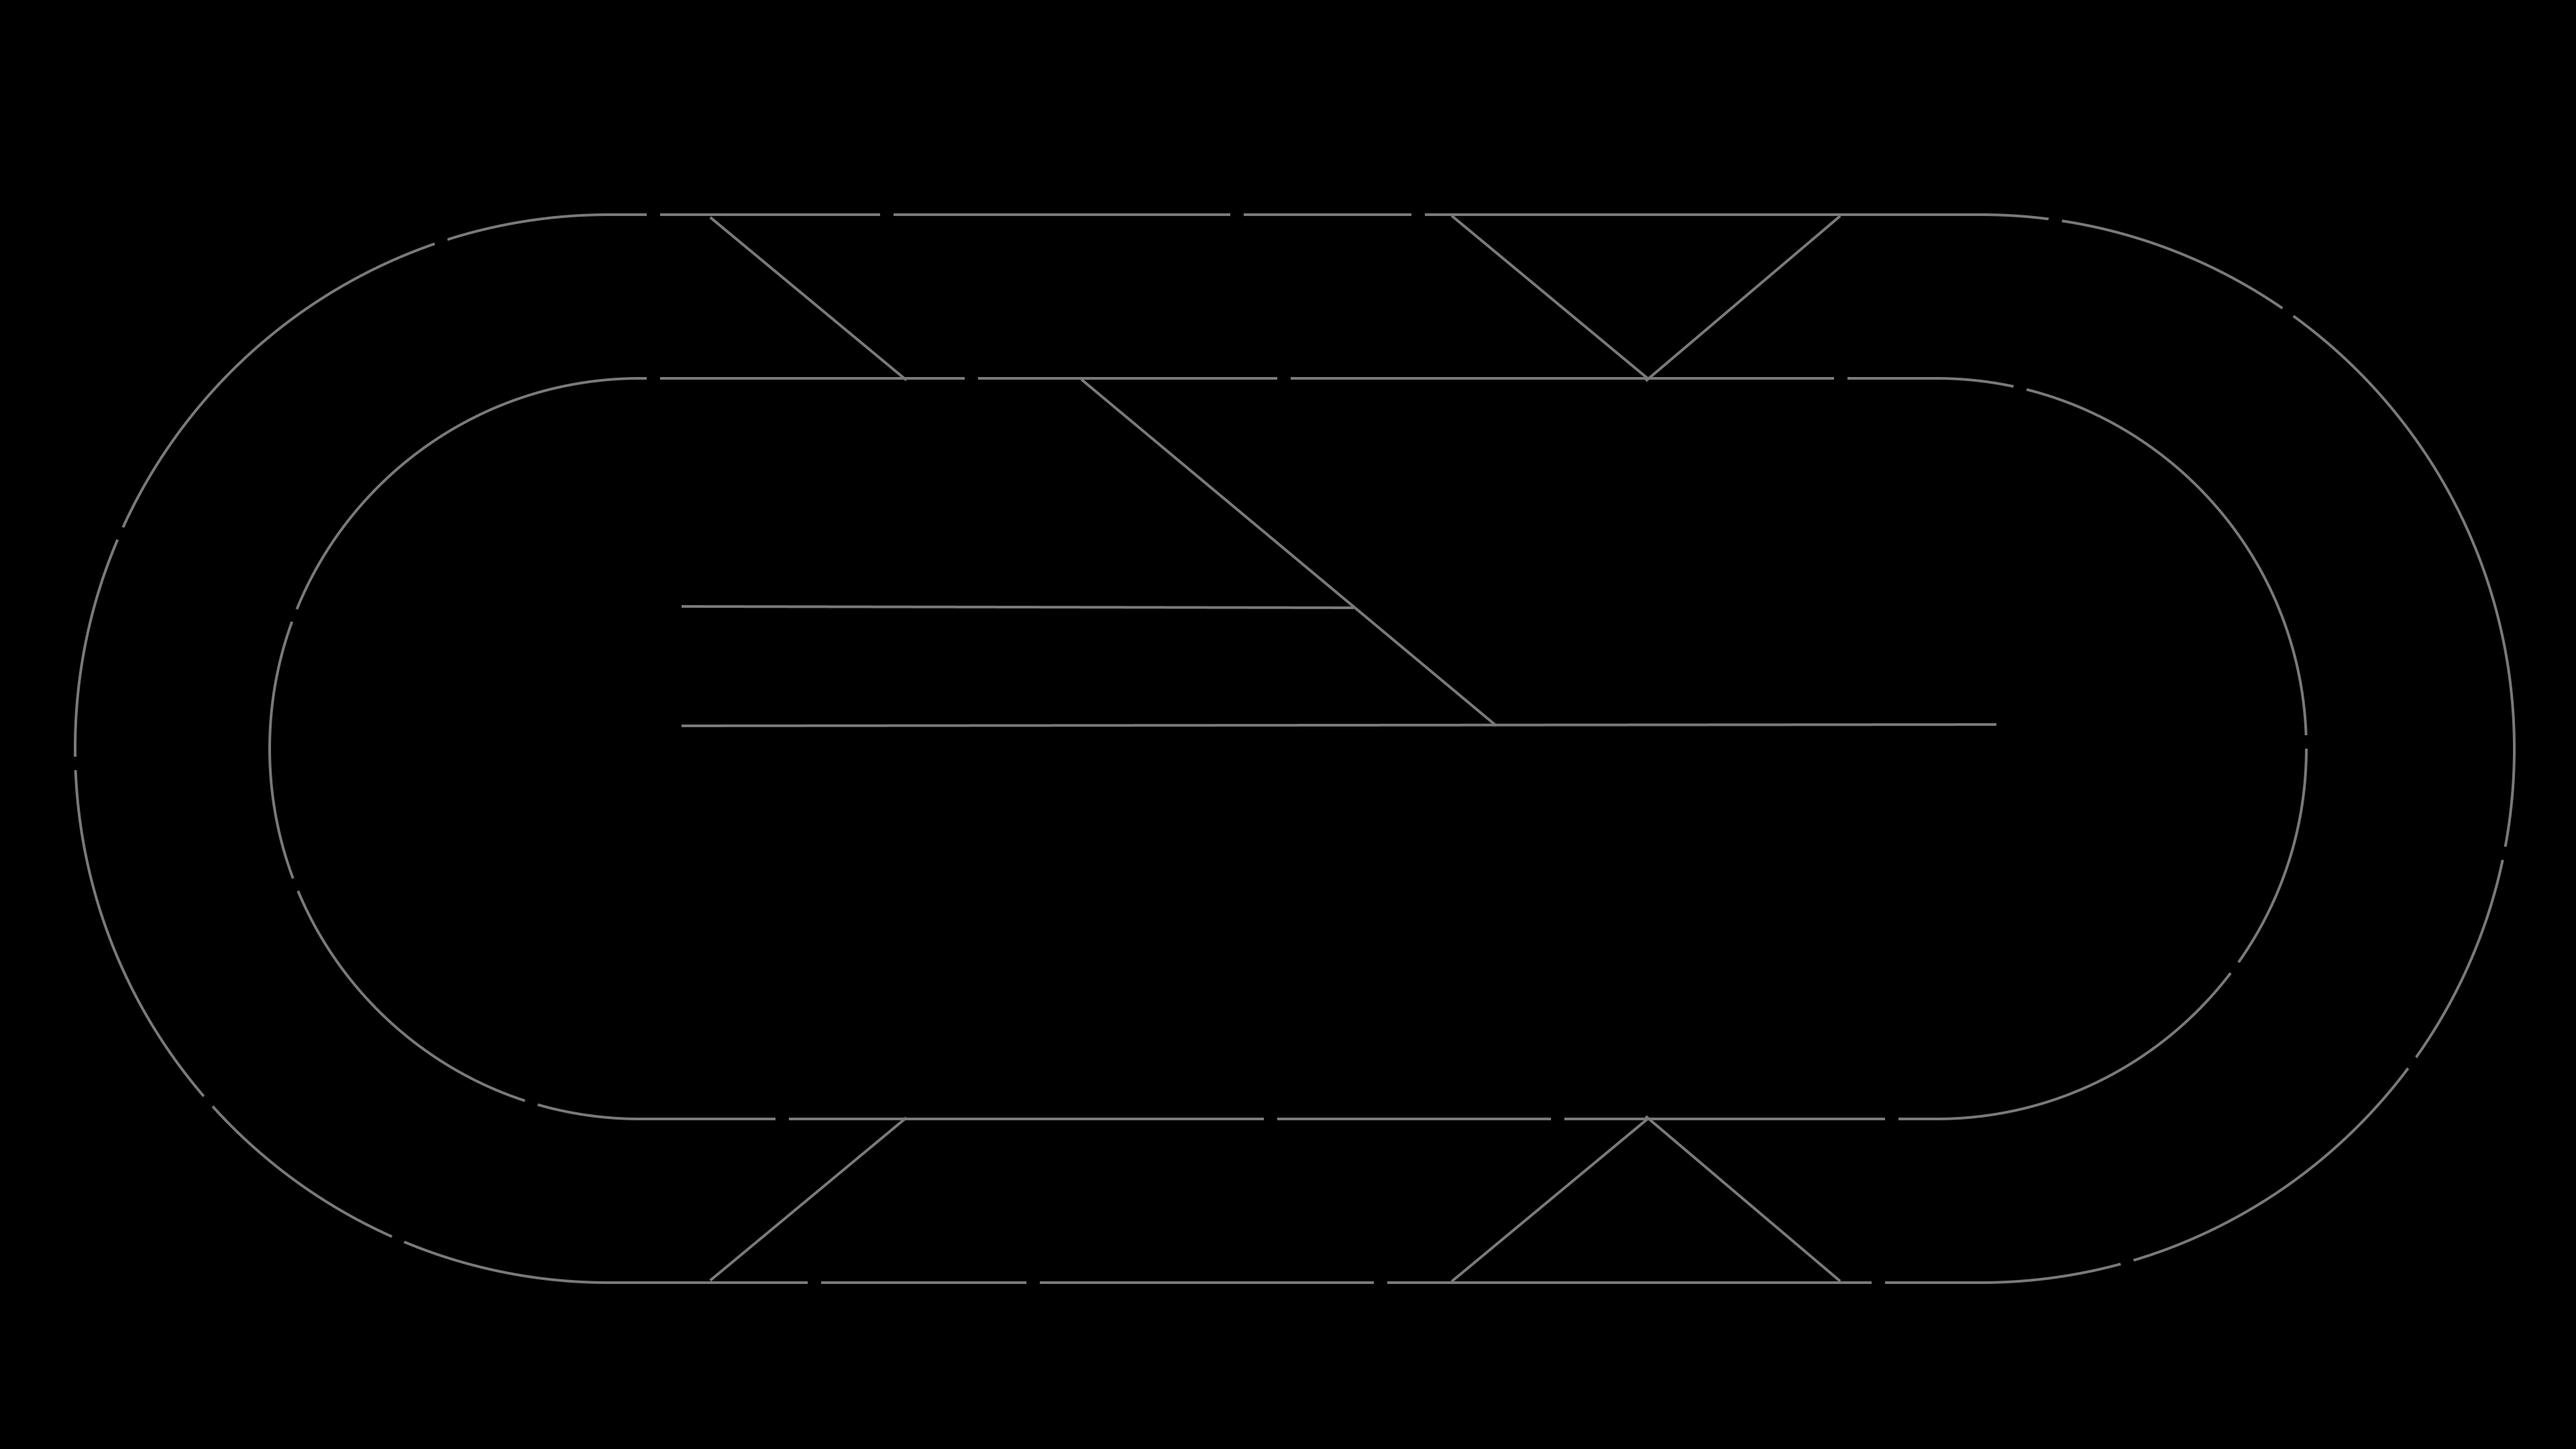
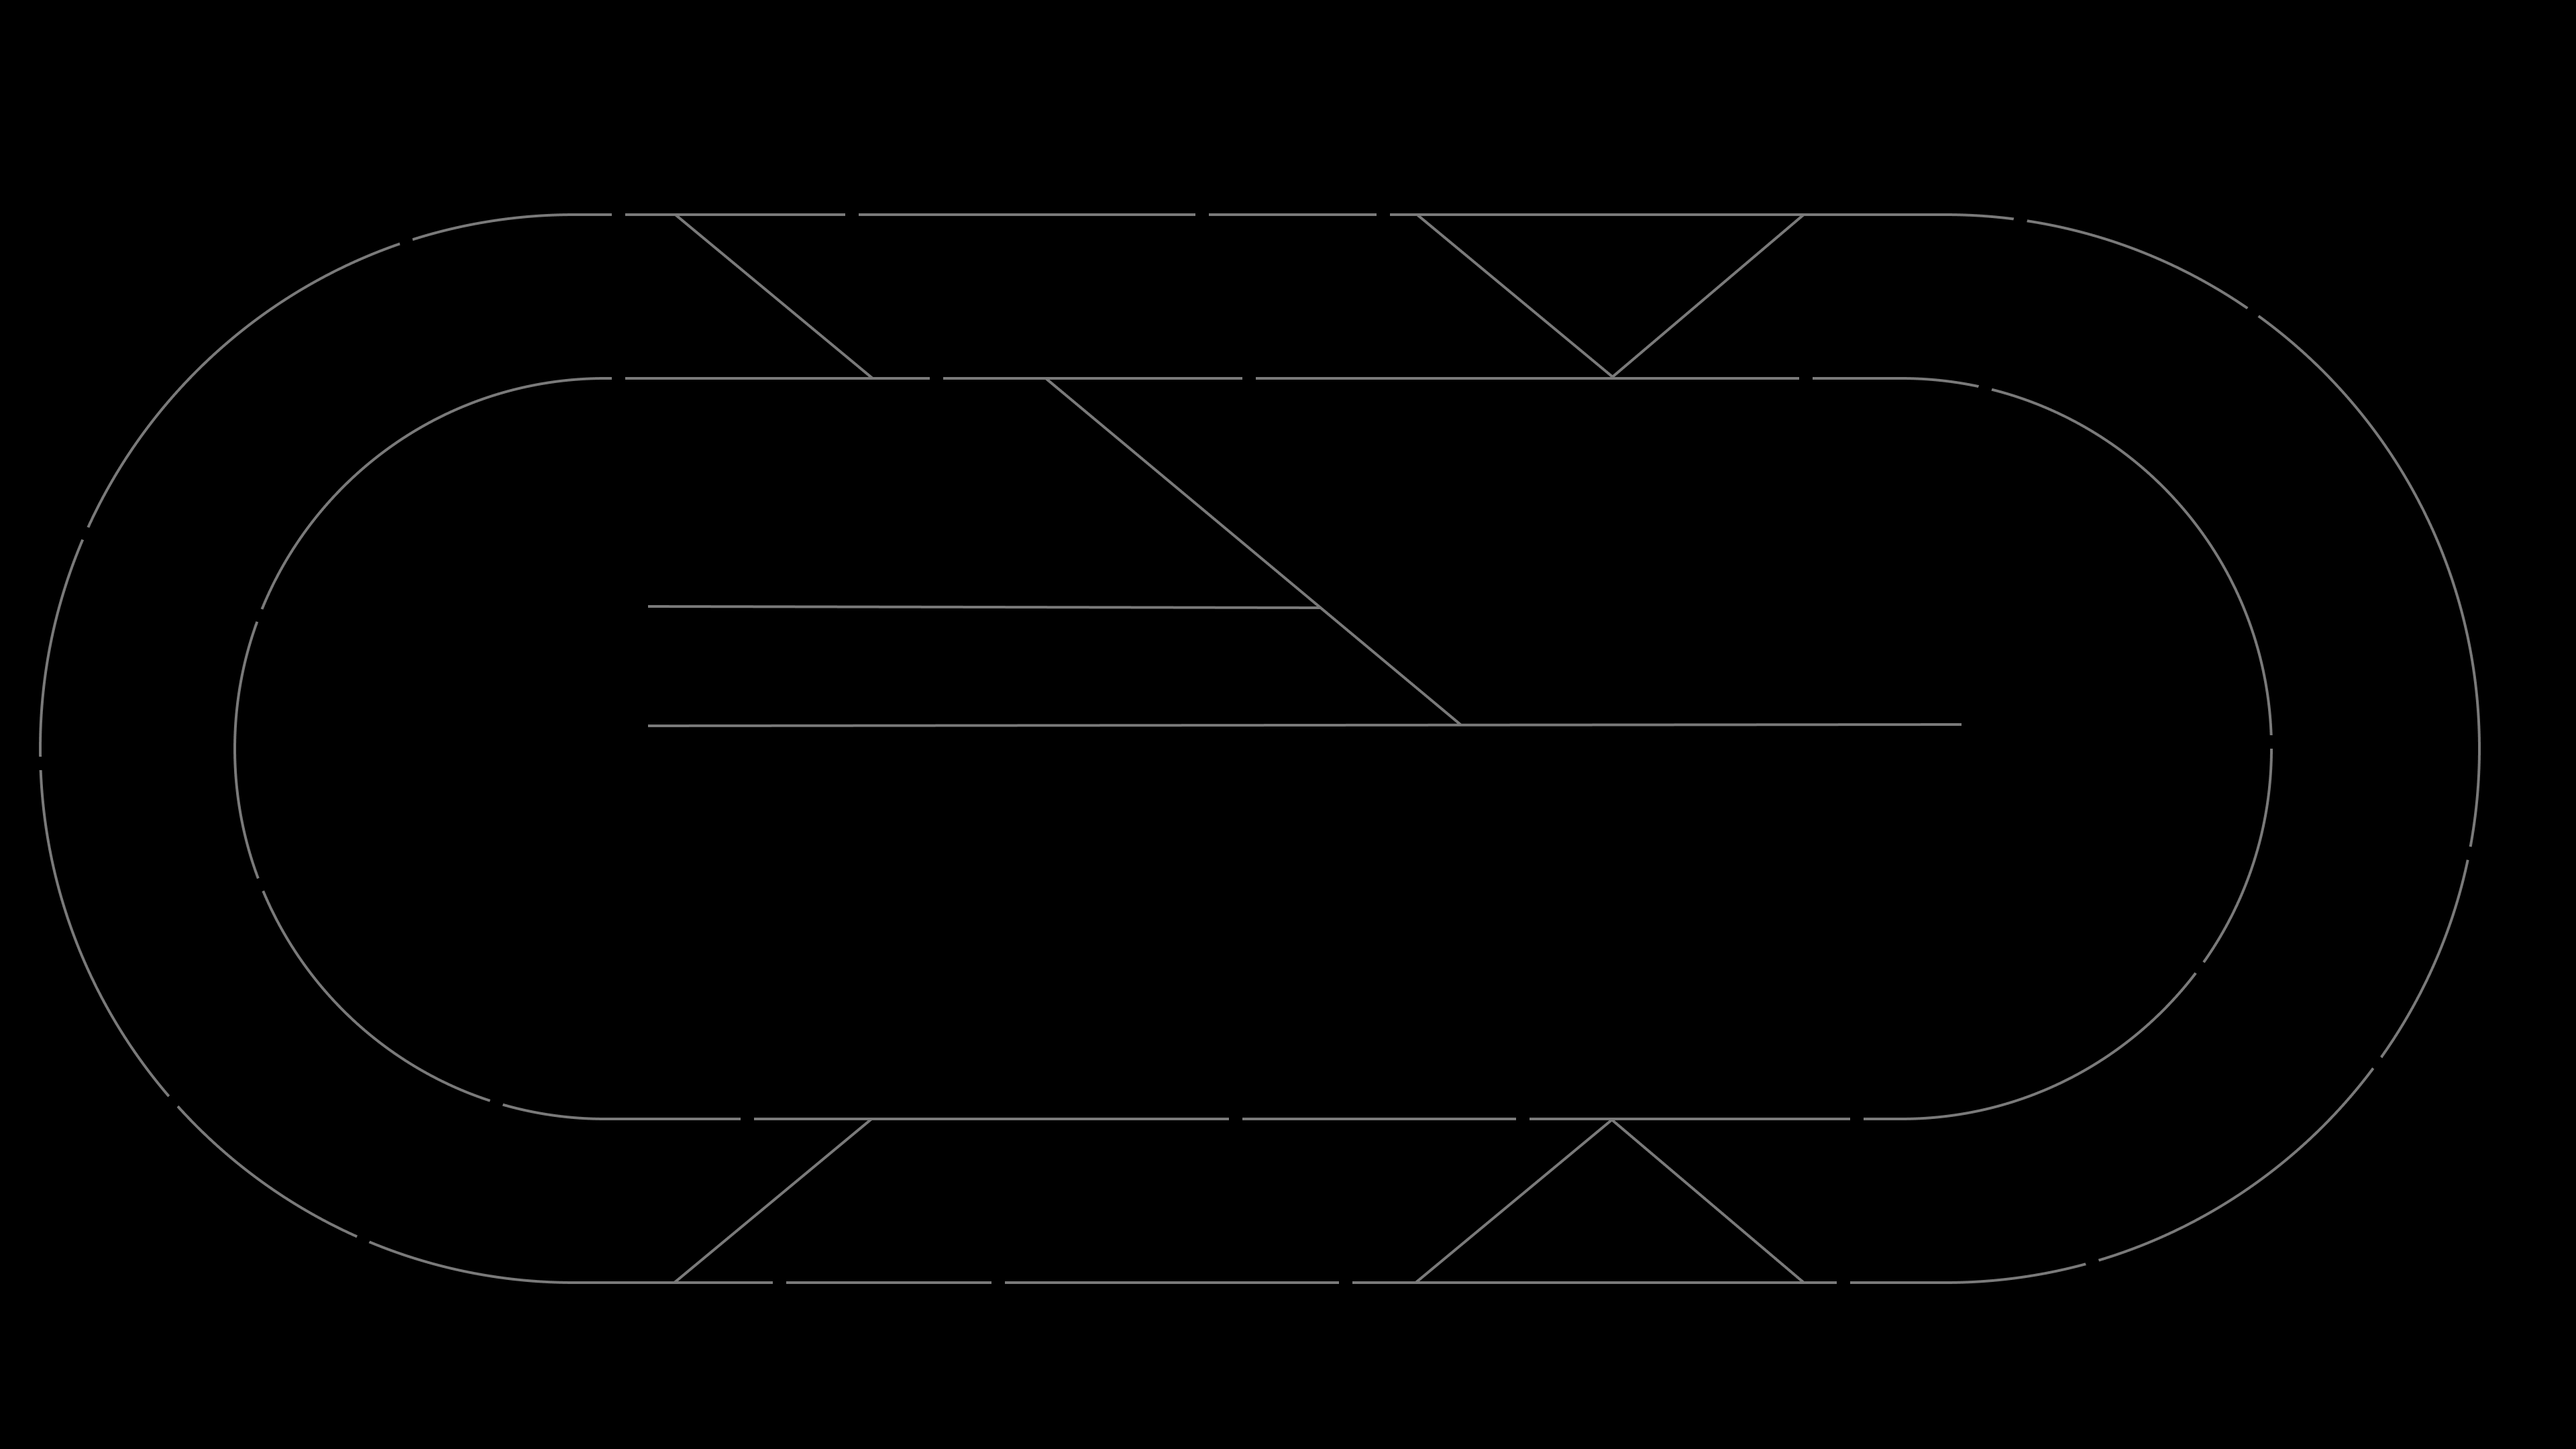
signal setup added

diff --git a/sources/gui.cpp b/sources/gui.cpp
@@ -6,7 +6,7 @@ Gui::Gui(QWidget *parent) : QMainWindow(parent), ui(new Ui::GUI) {
     ui->setupUi(this);
     this->setWindowTitle("Tableau de commande optique");
     resize(DEFAULT_WIDTH,DEFAULT_HEIGHT);
-    INIT_SIGNALS();
+    TEST_SETUP();
     
 
 
@@ -17,7 +17,7 @@ Gui::Gui(QWidget *parent) : QMainWindow(parent), ui(new Ui::GUI) {
     
 }
 
-void Gui::INIT_SIGNALS(){
+void Gui::TEST_SETUP(){
     signalsArray[0] = new LightSignal(1, SAVL, QPoint(0, 0), this);
     signalsArray[1] = new LightSignal(2, SAVLR, QPoint(400, 400), this);
     signalsArray[2] = new LightSignal(3, CSAVLRR, QPoint(500, 500), this);
@@ -30,26 +30,58 @@ void Gui::INIT_SIGNALS(){
     //qDebug() << "Initialization of signals made";
 }
 
+void Gui::SETUP_SIGNALS(){
+    //14 exisisting signals :
+    signalsArray[0] = new LightSignal(7, SAVL, QPoint(140, 850), this);
+    signalsArray[1] = new LightSignal(15, SAVL, QPoint(1590, 120), this);
+
+    signalsArray[2] = new LightSignal(1, SAVLR, QPoint(20, 340), this);
+    signalsArray[3] = new LightSignal(9, SAVLR, QPoint(1800, 730), this);
+    signalsArray[4] = new LightSignal(2, SAVLR, QPoint(225, 575), this);
+    signalsArray[5] = new LightSignal(8, SAVLR, QPoint(1637, 600), this);
+
+    
+    signalsArray[6] = new LightSignal(13, CSAVLRR, QPoint(600,910), this);
+    signalsArray[7] = new LightSignal(4, CSAVLRR, QPoint(1100, 695), this);
+    signalsArray[8] = new LightSignal(12, CSAVLRR, QPoint(700, 280), this);
+    signalsArray[9] = new LightSignal(5, CSAVLRRR, QPoint(960, 70), this);
+
+
+    
+    signalsArray[10] = new LightSignal(11, CSAVLRRR, QPoint(1445, 910), this);
+    signalsArray[11] = new LightSignal(4, CSAVLRRR, QPoint(510, 685), this);
+    signalsArray[12] = new LightSignal(10, CSAVLRRR, QPoint(1370, 280), this);
+    signalsArray[13] = new LightSignal(3, CSAVLRRR, QPoint(420,60), this);
+
+    for(int i = 0; i<14;i++){
+        signalsArray[i]->setAspect(VL);
+    }
+}
 
 void Gui::onColorButtonClicked() {
-    for(int i = 0; i<4; i++){
-        getSignal(i)->setAspect(S);
+    /* for(int i = 0; i<4; i++){
+        ->setAspect(S);
         update();
-    }
+    } */
 }
 
 Gui::~Gui(){
     delete ui;
 }
 
-LightSignal *Gui::getSignal(int index)
+LightSignal *Gui::getSignalById(int id, int maxId)
 {
-    if(index>=0 && index<signalNumber){
-
-        return signalsArray[index];
-    } else {
-        return nullptr;
+   
+    for(int i = 0; i < maxId;i ++){
+        if(signalsArray[i]->getId() == id){
+            qDebug() << "Signal found !";
+            return signalsArray[i];
+        }
     }
+    
+    qDebug() << "no signal found with this id";
+    return nullptr;
+    
 }
 
 

diff --git a/sources/lightsignal.cpp b/sources/lightsignal.cpp
@@ -25,27 +25,28 @@ LightSignal::LightSignal(int id, const SignalType type, const QPoint position, Q
     ;
     switch(signalType){
         case SAVL:{
-            lightGridSAVL.rotateGrid(RIGHT_90);
+
             setFixedSize(lightGridSAVL.getQSizeFromGrid(spacing,bulbSize));
             lightPositions = lightGridSAVL.getRectPositionFromGrid(spacing, bulbSize);
+            
             break;
         }
         case SAVLR:{
-            lightGridSAVLR.rotateGrid(RIGHT_90);
+
             setFixedSize(lightGridSAVLR.getQSizeFromGrid(spacing,bulbSize));
             lightPositions = lightGridSAVLR.getRectPositionFromGrid(spacing, bulbSize);
 
             break;
         }
         case CSAVLRR:{
-            lightGridCSAVLRR.rotateGrid(RIGHT_90);
+
             setFixedSize(lightGridCSAVLRR.getQSizeFromGrid(spacing,bulbSize));
             lightPositions = lightGridCSAVLRR.getRectPositionFromGrid(spacing, bulbSize);
 
             break;
         }
         case CSAVLRRR:{
-            lightGridCSAVLRRR.rotateGrid(RIGHT_90);
+
             setFixedSize(lightGridCSAVLRRR.getQSizeFromGrid(spacing,bulbSize));
             lightPositions = lightGridCSAVLRRR.getRectPositionFromGrid(spacing, bulbSize);
 
@@ -137,6 +138,10 @@ LightSignal::~LightSignal(){
 
 }
 
+int LightSignal::getId(){
+    return id;
+}
+
 void LightSignal::flipSignal(){
     setFixedSize(100/*this->size().height()*/,100/*this->size().width()*/);
     for(int i =0 ; i<lightPositions.size(); i++){
@@ -186,7 +191,7 @@ void LightSignal::paintEvent(QPaintEvent *event)
     QPainter painter(this);
     painter.setRenderHint(QPainter::Antialiasing); // Smooth circles
     
-    painter.fillRect(rect(), QColor(GRAY));
+    //painter.fillRect(rect(), QColor(GRAY));
 
     // Draw each bulb
     for (int i = 0; i < lightPositions.size(); ++i) {

diff --git a/headers/lightsignal.h b/headers/lightsignal.h
@@ -49,6 +49,7 @@ class LightSignal : public QWidget
         explicit LightSignal(int id, const SignalType type, const QPoint position, QWidget *parent = nullptr);
         ~LightSignal();
 
+        int getId();
 
         void flipSignal();
         //Displays CMD info on a given Signal
@@ -98,8 +99,8 @@ class LightSignal : public QWidget
         //QVector<QPoint>  lightGridCSAVLRRR = {QPoint(0,6),QPoint(1,6),QPoint(1,5),QPoint(1,4),QPoint(1,2),QPoint(1,1),QPoint(2,2),QPoint(2,1),QPoint(2,0)};
         
 
-        int bulbSize = 15; //geometry parameters
-        int spacing = 4;
+        int bulbSize = 9; //geometry parameters (default 8,3)
+        int spacing = 3;
 
         //signal position on the window
         //QVector<QRect> getRectPositionsFromGrid(QVector<QPoint> myGrid);

diff --git a/headers/gui.h b/headers/gui.h
@@ -27,9 +27,10 @@ class Gui : public QMainWindow {
         explicit Gui(QWidget *parent = nullptr);
         ~Gui();
 
-        //getterformylightSignal array
-        LightSignal* getSignal(int index);
-        void INIT_SIGNALS();
+        //getter for a signal with its id
+        LightSignal* getSignalById(int id, int maxId);
+        void TEST_SETUP();
+        void SETUP_SIGNALS();
     
     protected :
         //void resizeEvent(QResizeEvent *event) override;

diff --git a/sources/main.cpp b/sources/main.cpp
@@ -11,11 +11,8 @@
 int main(int argc, char *argv[]) {
     QApplication app(argc, argv);
     Gui myGui;
-    //myGui.getSignal(0)->move(QPoint(800,800));
-    LightGrid *grid = new LightGrid(5);
-    grid->displayGrid();
-    grid->rotateGrid(LEFT_90);
-    grid->displayGrid();
+    
+    
     myGui.show();
     return app.exec();
 }
